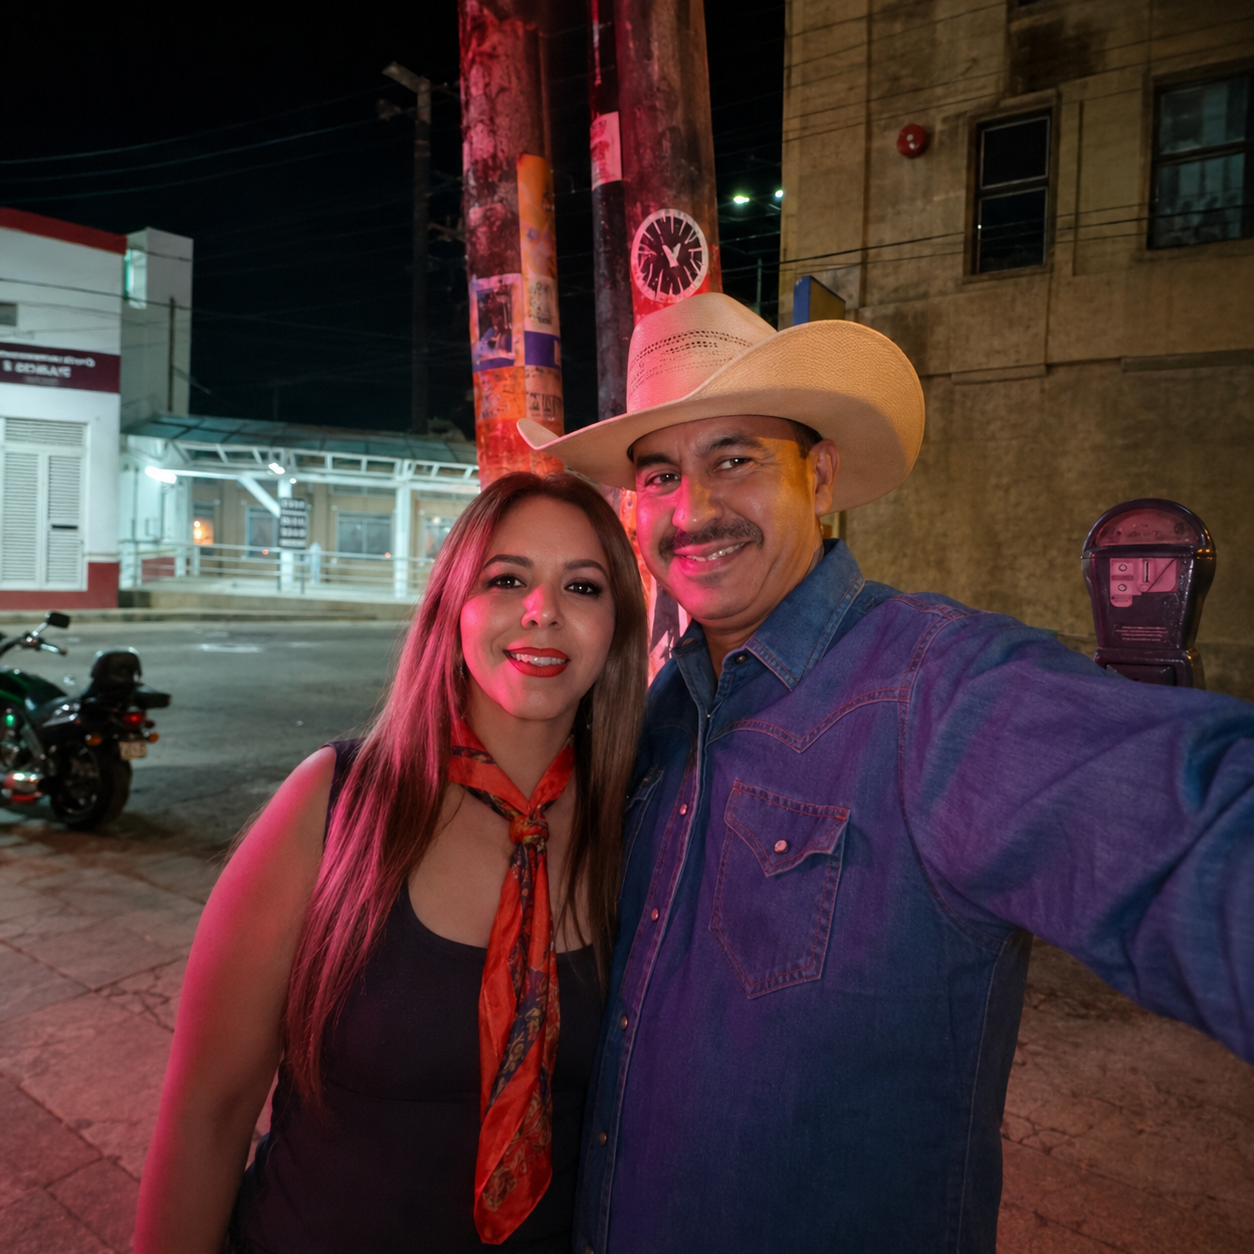
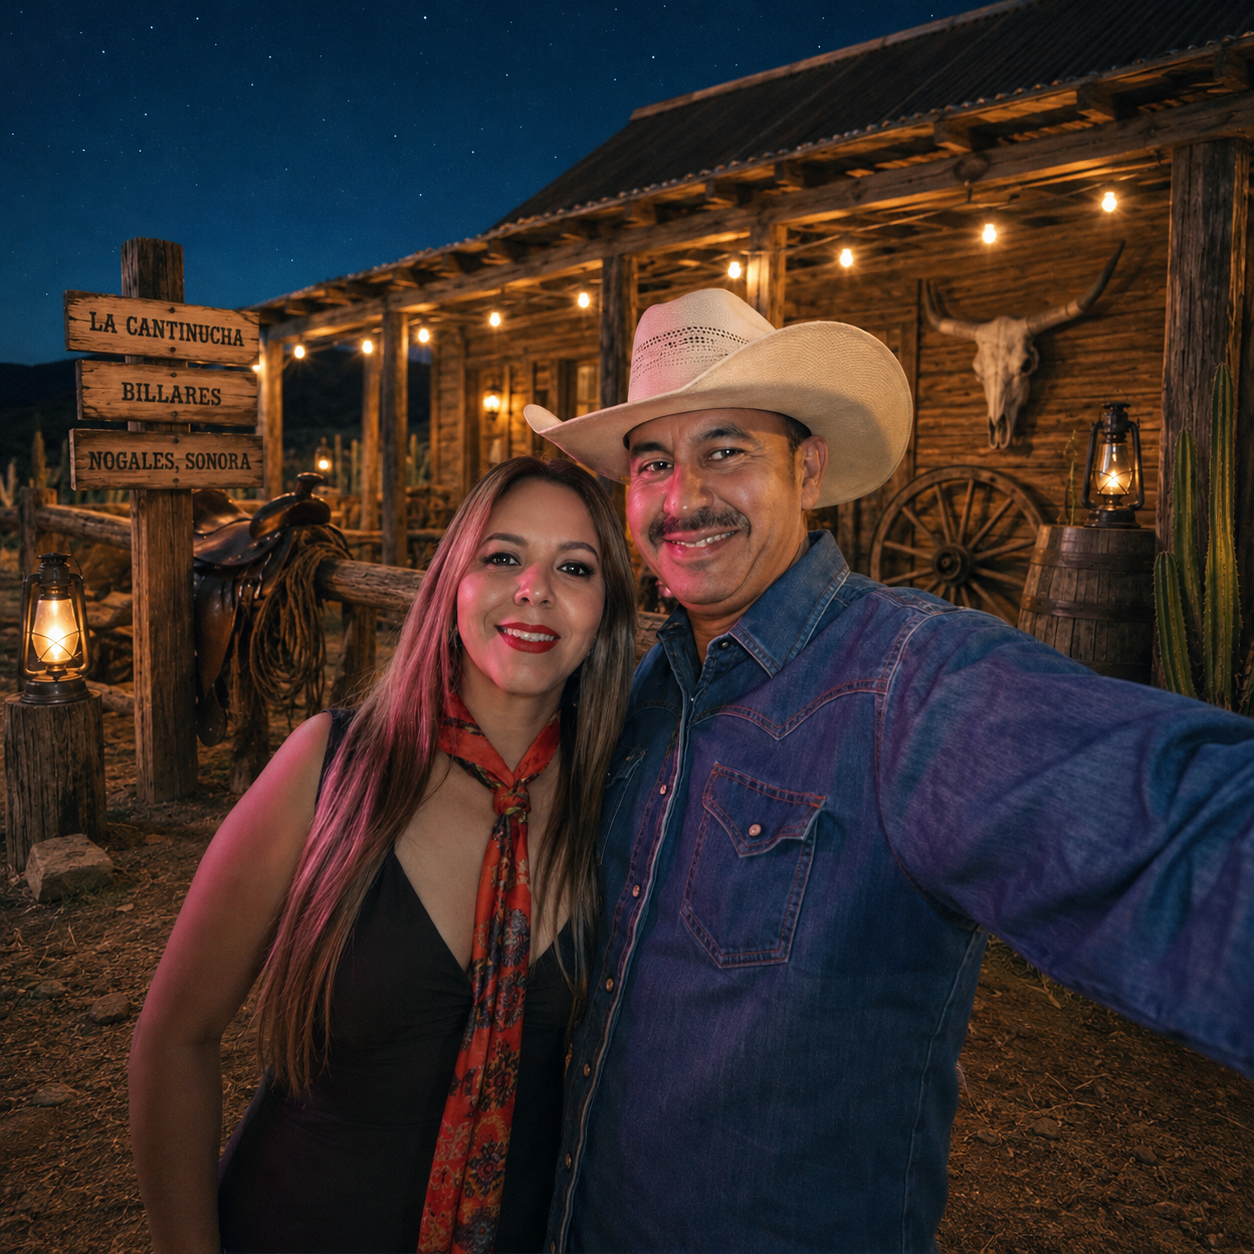
cambio 2

diff --git a/Nuestra-Boda/src/componentes-encabezado/Ubicacion.jsx b/Nuestra-Boda/src/componentes-encabezado/Ubicacion.jsx
@@ -4,9 +4,9 @@ import { motion } from "framer-motion";
 const Celebracion = ({
   titulo = "Celebración",
   fecha = "30 Octubre 2026",
-  hora = "8:30 PM",
+  hora = "9:00 PM",
   lugar = "Salón Jardín Ajijic",
-  direccion = "Blvd. del Raquet 21, California, 84066 Heroica Nogales, Son.",
+  direccion = "Blvd. del Raquet 21, Nuevo Nogales, 84066 Heroica Nogales, Son.",
   ubicacion = "https://maps.app.goo.gl/MAVAh6Ud9g4WEzW99",
 }) => {
   return (
@@ -97,28 +97,6 @@ const Celebracion = ({
         <div className="relative overflow-hidden bg-[#0F6670] px-6 py-12 text-center sm:px-12 sm:py-14">
           <div className="absolute left-0 top-0 h-1 w-full bg-[#C99A3D]" />
 
-          <motion.p
-            initial={{
-              opacity: 0,
-              letterSpacing: "0.15em",
-            }}
-            whileInView={{
-              opacity: 1,
-              letterSpacing: "0.35em",
-            }}
-            transition={{ duration: 0.8 }}
-            viewport={{ once: true }}
-            className="
-              mb-4
-              text-xs
-              font-semibold
-              uppercase
-              text-white
-              sm:text-sm
-            "
-          >
-            Día especial
-          </motion.p>
 
           <motion.h2
             initial={{ opacity: 0, y: 20 }}

diff --git a/Nuestra-Boda/src/componentes-encabezado/Confirmacion.jsx b/Nuestra-Boda/src/componentes-encabezado/Confirmacion.jsx
@@ -170,8 +170,8 @@ Hola, confirmo mi asistencia por medio de la invitación digital.
               <div className="h-px flex-1 bg-[#C99A3D]" />
             </div>
 
-            <p className="mt-7 leading-7 text-black sm:text-lg">
-              Por favor confirma tu asistencia. Nos encantará compartir este día
+            <p className="mt-7 leading-7 text-black sm:text-xl">
+              La invitacion es para 2 personas por favor confirma tu asistencia antes del 15 de Octubre. Nos encantará compartir este día
               tan especial contigo.
             </p>
           </motion.div>

diff --git a/Nuestra-Boda/src/componentes-encabezado/Contador.jsx b/Nuestra-Boda/src/componentes-encabezado/Contador.jsx
@@ -3,7 +3,7 @@ import { motion } from "framer-motion";
 
 const Contador = ({
   titulo = "¡Estás invitado!",
-  texto = "Nos encantaría que seas parte de este momento tan especial para nosotros.",
+  texto = "A celebrar nuestra union y nos encantaría que seas parte de este momento tan especial para nosotros.",
   frase = "¡Falta poco!",
   fecha = "2026-10-30T00:00:00",
 }) => {
